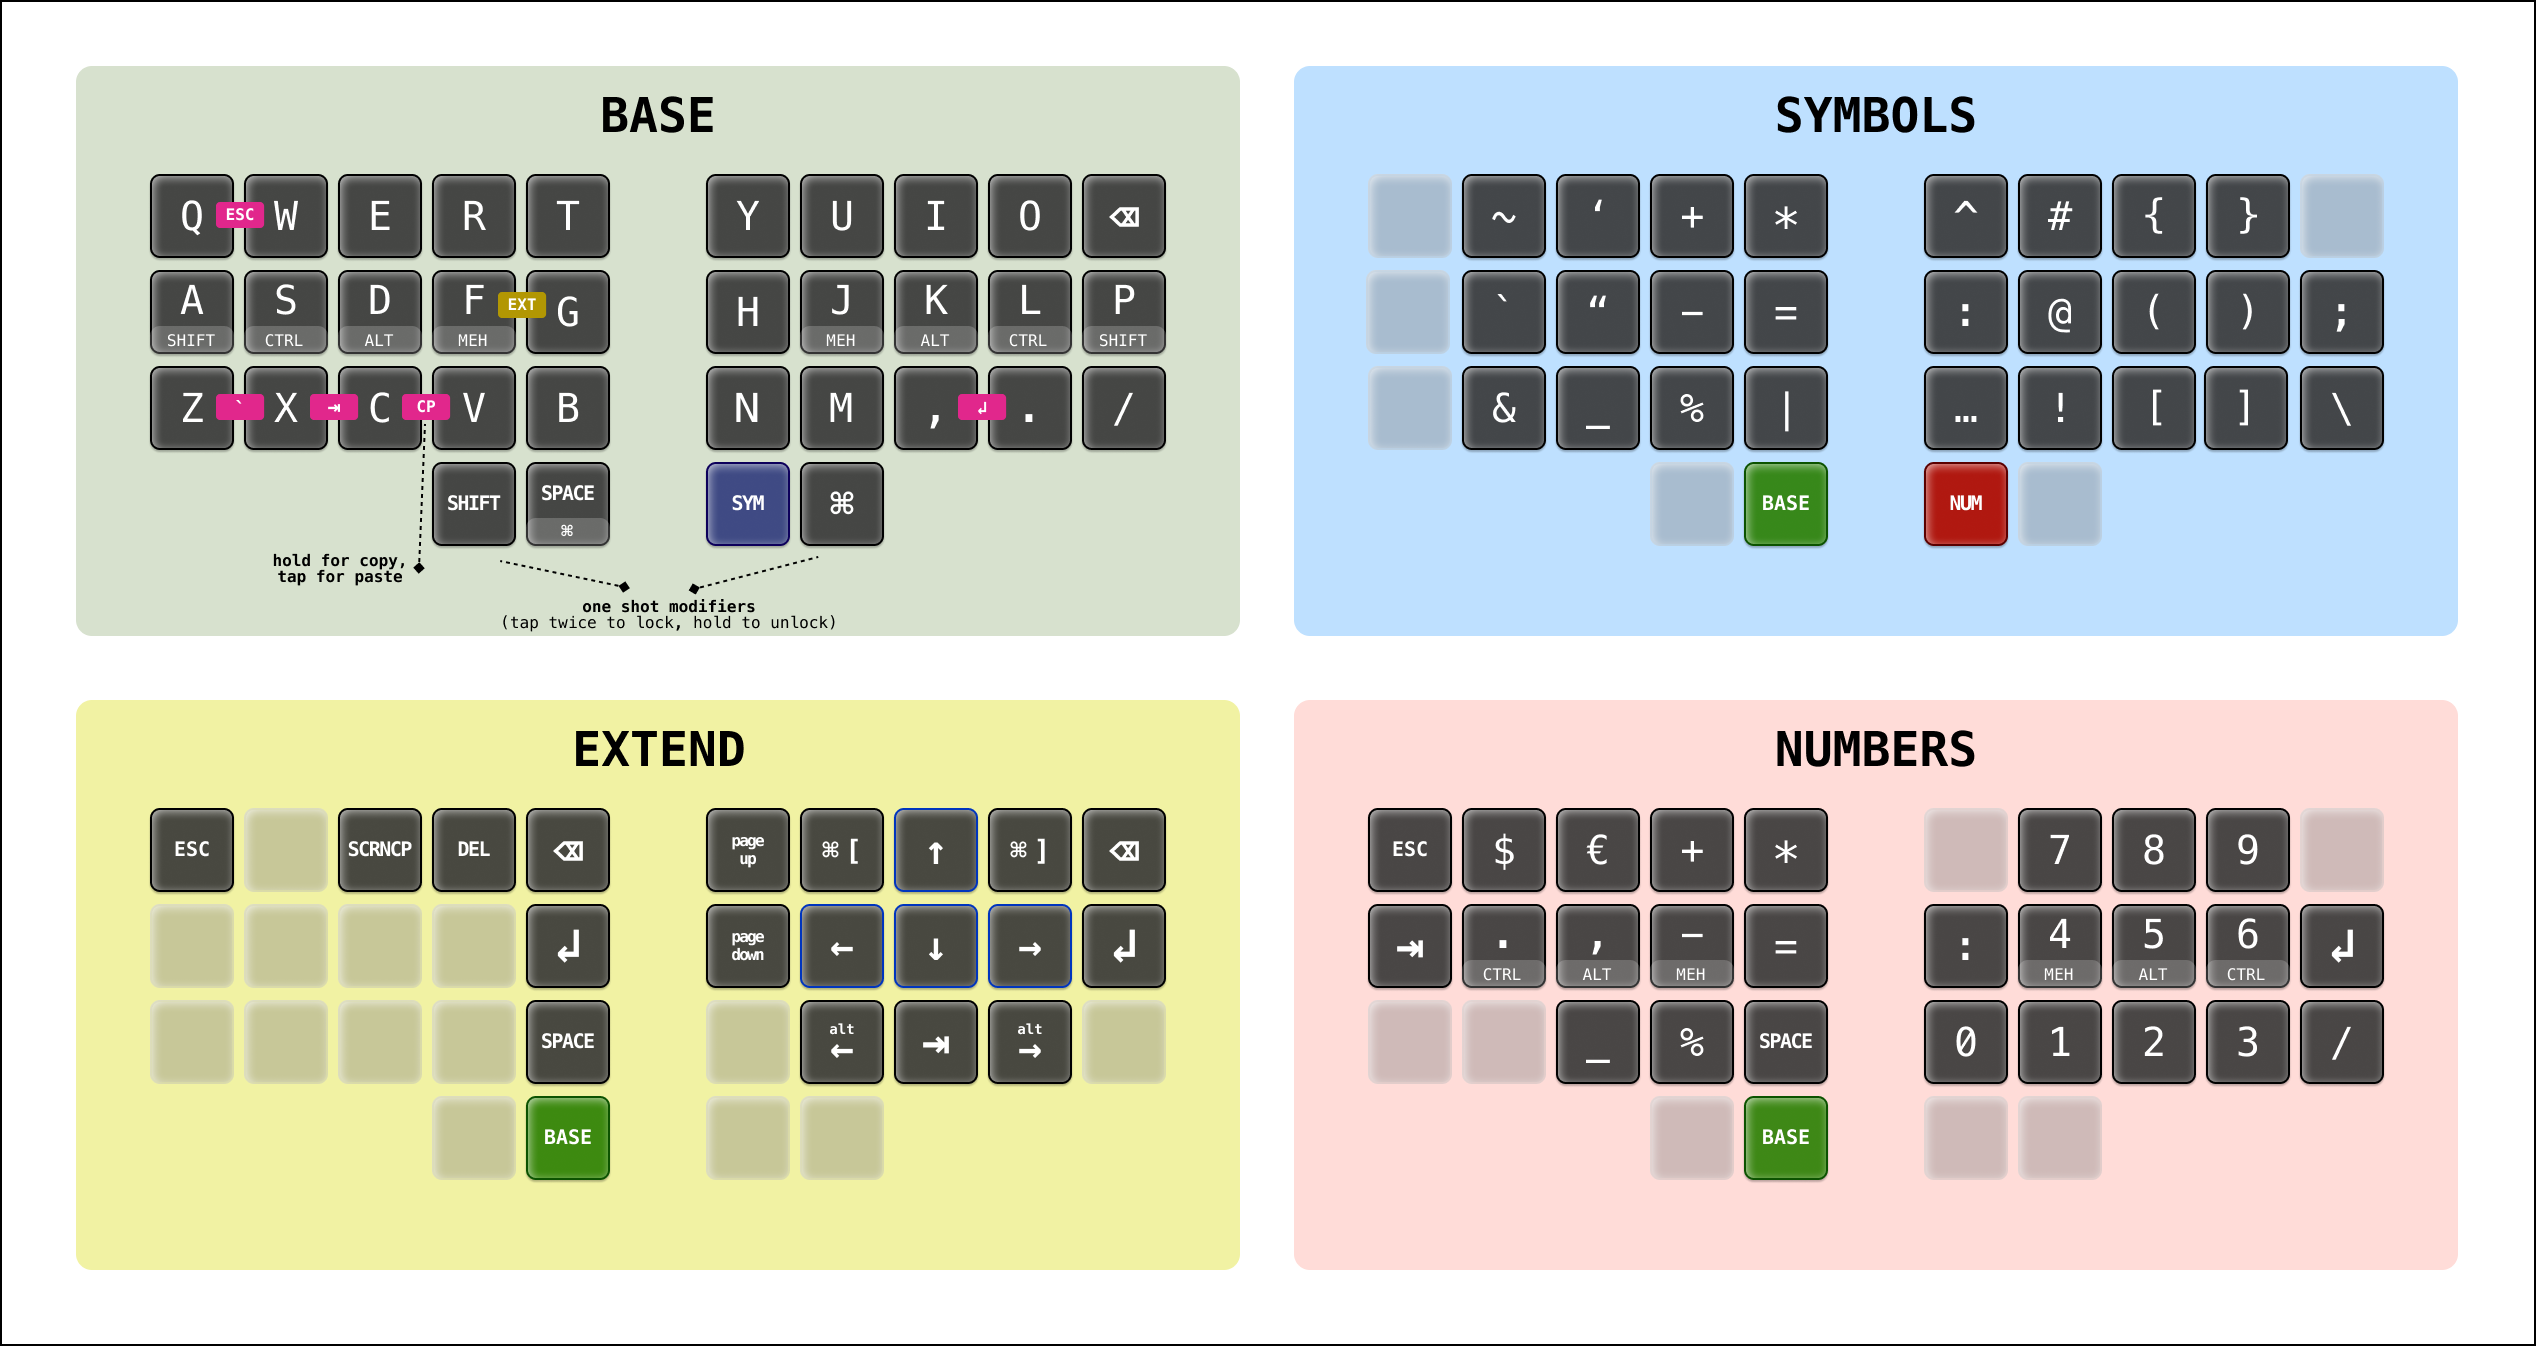
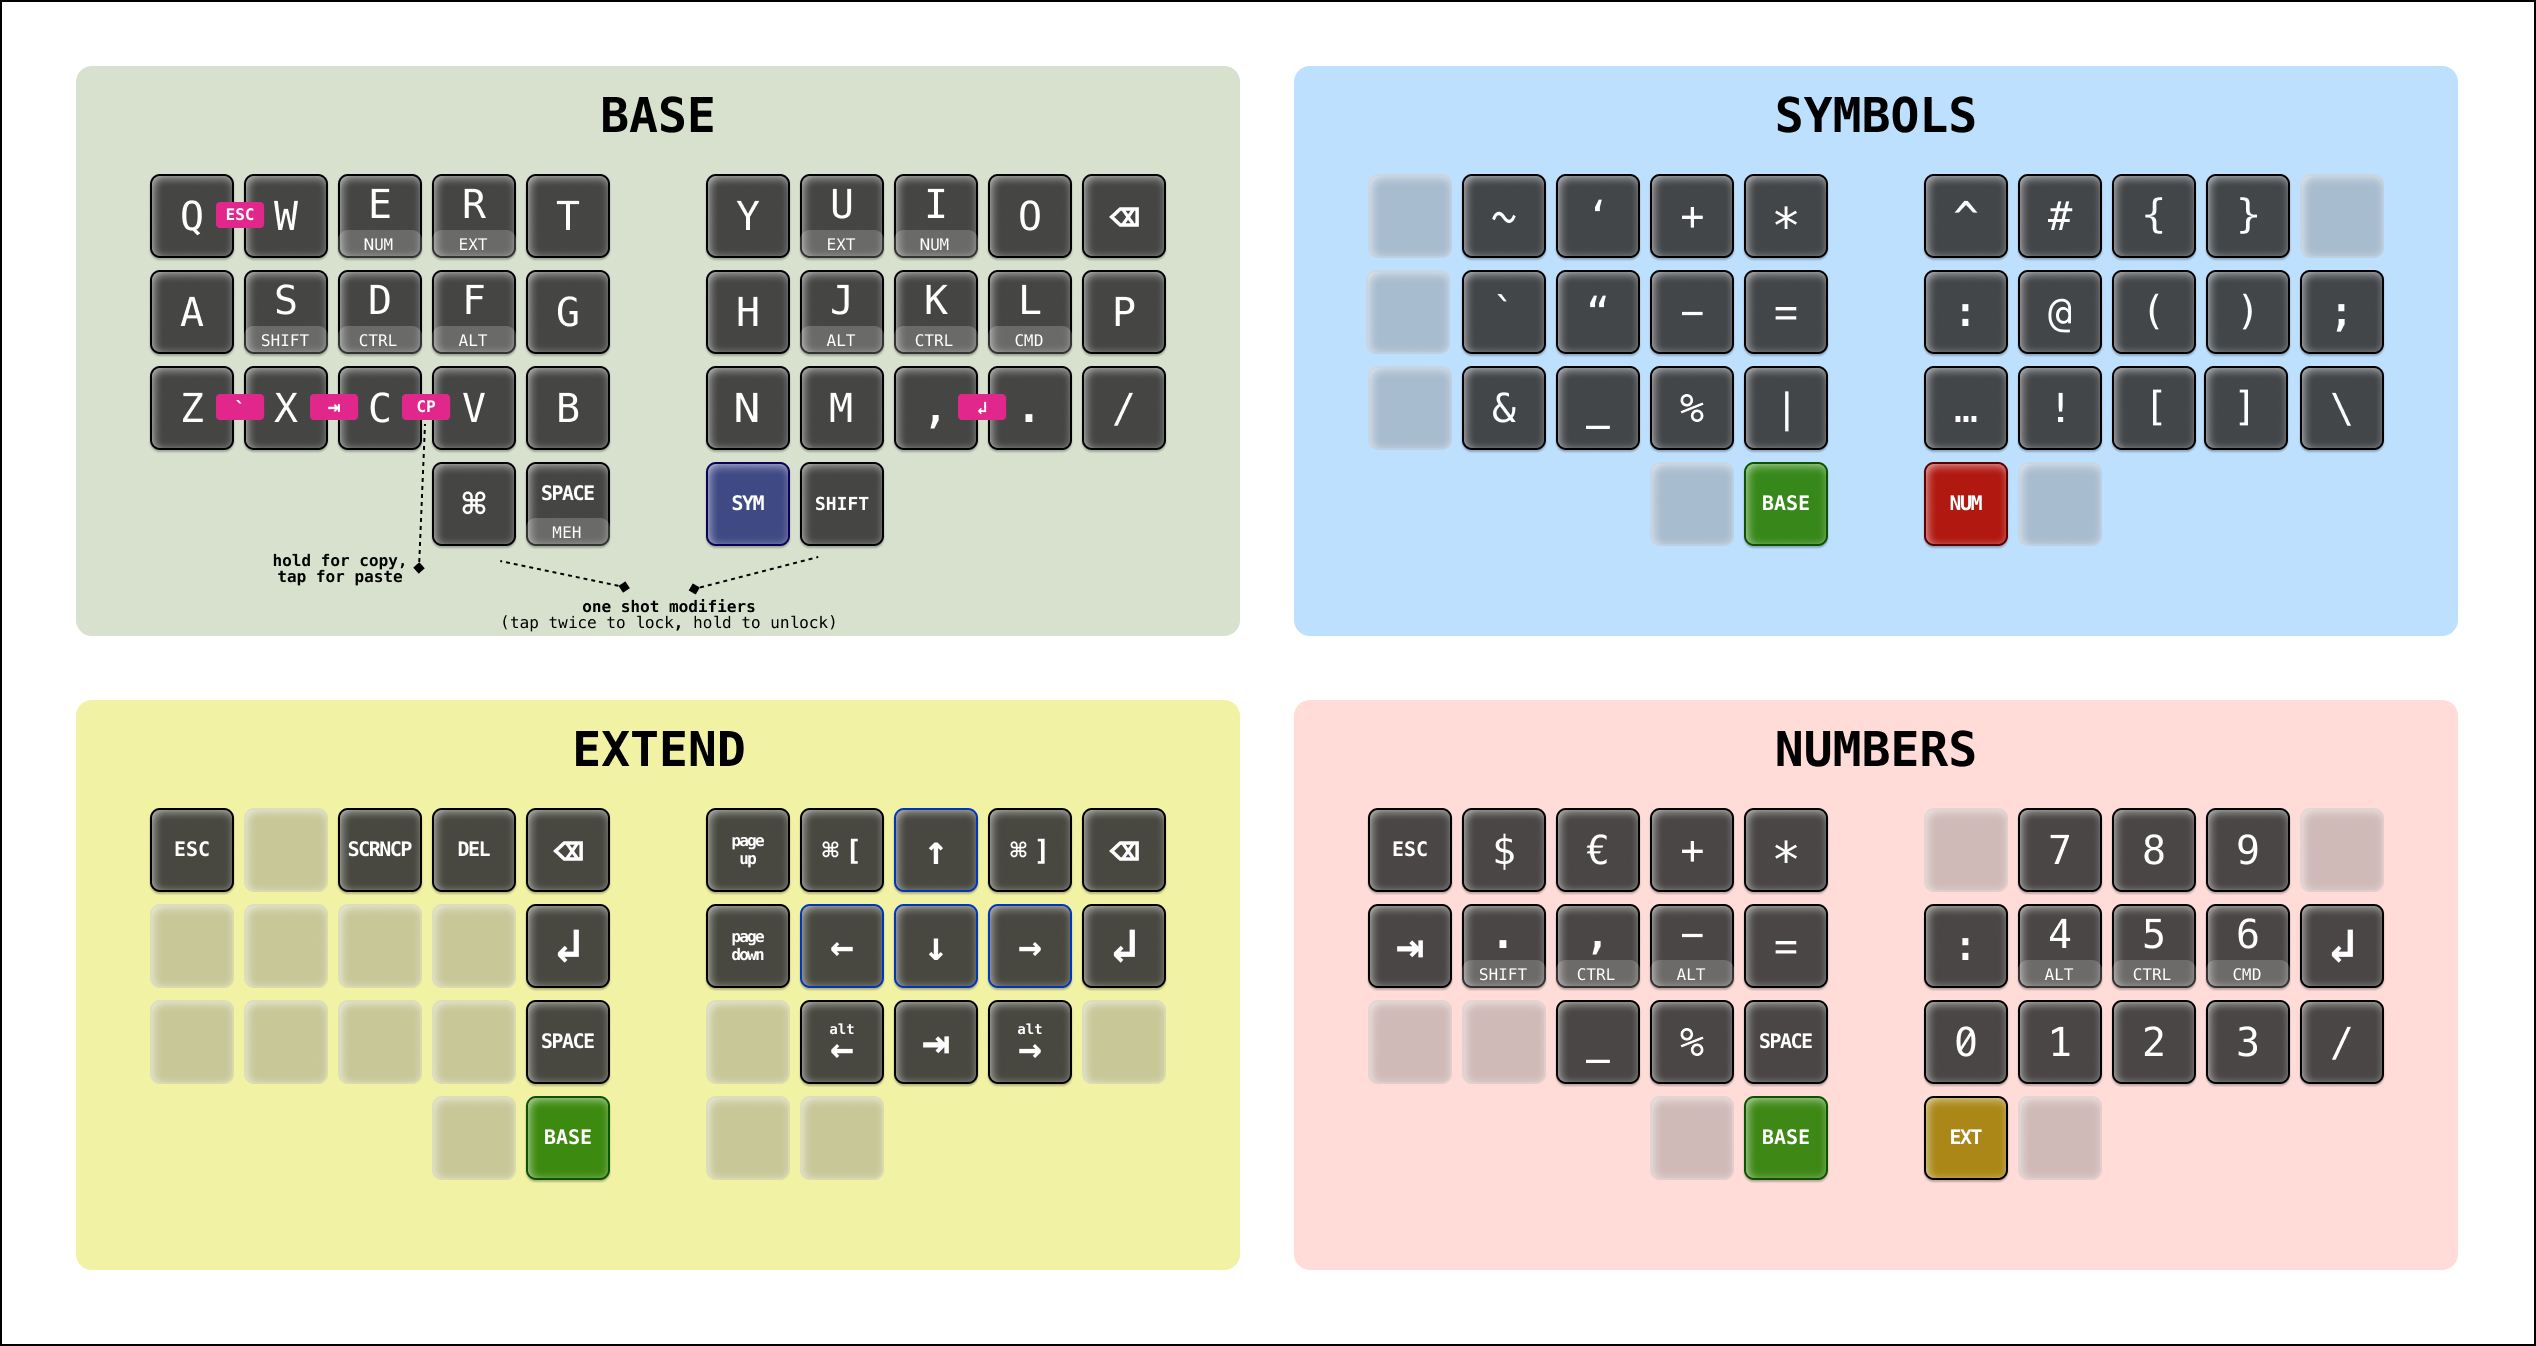
Switched shift and cmd + added more layer taps to access extend and numbers

diff --git a/moonlander-mk3/threefourbase.c b/moonlander-mk3/threefourbase.c
@@ -16,7 +16,6 @@ enum combos {
 	CBO_2,
 	CBO_3,
 	CBO_4,
-	CBO_5,
 	COMBO_LENGTH
 };
 
@@ -27,15 +26,13 @@ const uint16_t PROGMEM combo1[] = { KC_X, KC_C, COMBO_END};
 const uint16_t PROGMEM combo2[] = { KC_Z, KC_X, COMBO_END};
 const uint16_t PROGMEM combo3[] = { KC_COMMA, KC_DOT, COMBO_END};
 const uint16_t PROGMEM combo4[] = { KC_C, KC_V, COMBO_END};
-const uint16_t PROGMEM combo5[] = { MEH_T(KC_F), KC_G, COMBO_END};
 
 combo_t key_combos[] = {
 	[CBO_0] = COMBO(combo0, KC_ESCAPE),
 	[CBO_1] = COMBO(combo1, KC_TAB),
 	[CBO_2] = COMBO(combo2, KC_GRAVE),
 	[CBO_3] = COMBO(combo3, KC_ENTER),
-	[CBO_4] = COMBO(combo4, KC_CCCV),
-	[CBO_5] = COMBO(combo5, TT(3)),
+	[CBO_4] = COMBO(combo4, KC_CCCV)
 };
 
 // # Layer 0
@@ -44,29 +41,29 @@ combo_t key_combos[] = {
 
 #define KR_0_1_1 KC_Q
 #define KR_0_1_2 KC_W
-#define KR_0_1_3 KC_E
-#define KR_0_1_4 KC_R
+#define KR_0_1_3 LT(2, KC_E)
+#define KR_0_1_4 LT(3, KC_R)
 #define KR_0_1_5 KC_T
 //
 #define KR_0_1_6 KC_Y
-#define KR_0_1_7 KC_U
-#define KR_0_1_8 KC_I
+#define KR_0_1_7 LT(3, KC_U)
+#define KR_0_1_8 LT(2, KC_I)
 #define KR_0_1_9 KC_O
 #define KR_0_1_10 KC_BSPC
 
 // Mid row
 
-#define KR_0_2_1 LSFT_T(KC_A)
-#define KR_0_2_2 LCTL_T(KC_S)
-#define KR_0_2_3 LALT_T(KC_D)
-#define KR_0_2_4 MEH_T(KC_F)
+#define KR_0_2_1 KC_A
+#define KR_0_2_2 LSFT_T(KC_S)
+#define KR_0_2_3 LCTL_T(KC_D)
+#define KR_0_2_4 LALT_T(KC_F)
 #define KR_0_2_5 KC_G
 //
 #define KR_0_2_6 KC_H
-#define KR_0_2_7 MEH_T(KC_J)
-#define KR_0_2_8 RALT_T(KC_K)
-#define KR_0_2_9 RCTL_T(KC_L)
-#define KR_0_2_10 RSFT_T(KC_P)
+#define KR_0_2_7 RALT_T(KC_J)
+#define KR_0_2_8 RCTL_T(KC_K)
+#define KR_0_2_9 RGUI_T(KC_L)
+#define KR_0_2_10 KC_P
 
 // Bottom row
 
@@ -86,11 +83,11 @@ combo_t key_combos[] = {
 // Thumb cluster
 
 #define KR_0_4_1 KC_NO
-#define KR_0_4_2 OSM(MOD_LSFT)
-#define KR_0_4_3 MT(MOD_LGUI, KC_SPACE)
+#define KR_0_4_2 OSM(MOD_LGUI)
+#define KR_0_4_3 MT(MOD_MEH, KC_SPACE)
 
 #define KR_0_4_4 TT(1)
-#define KR_0_4_5 OSM(MOD_LGUI)
+#define KR_0_4_5 OSM(MOD_LSFT)
 #define KR_0_4_6 KC_NO
 
 // ############################################
@@ -169,15 +166,15 @@ combo_t key_combos[] = {
 
 
 #define KR_2_2_1 KC_TAB
-#define KR_2_2_2 LCTL_T(KC_DOT)
-#define KR_2_2_3 LALT_T(KC_COMM)
-#define KR_2_2_4 MEH_T(KC_MINUS)
+#define KR_2_2_2 LSFT_T(KC_DOT)
+#define KR_2_2_3 LCTL_T(KC_COMM)
+#define KR_2_2_4 LALT_T(KC_MINUS)
 #define KR_2_2_5 KC_PEQL
 //
 #define KR_2_2_6 KC_COLN
-#define KR_2_2_7 MEH_T(KC_4)
-#define KR_2_2_8 RALT_T(KC_5)
-#define KR_2_2_9 RCTL_T(KC_6)
+#define KR_2_2_7 RALT_T(KC_4)
+#define KR_2_2_8 RCTL_T(KC_5)
+#define KR_2_2_9 RGUI_T(KC_6)
 #define KR_2_2_10 KC_ENTER
 
 
@@ -199,7 +196,7 @@ combo_t key_combos[] = {
 #define KR_2_4_2 KC_TRNS
 #define KR_2_4_3 TO(0)
 
-#define KR_2_4_4 KC_TRNS
+#define KR_2_4_4 TO(3)
 #define KR_2_4_5 KC_TRNS
 #define KR_2_4_6 KC_TRNS
 
